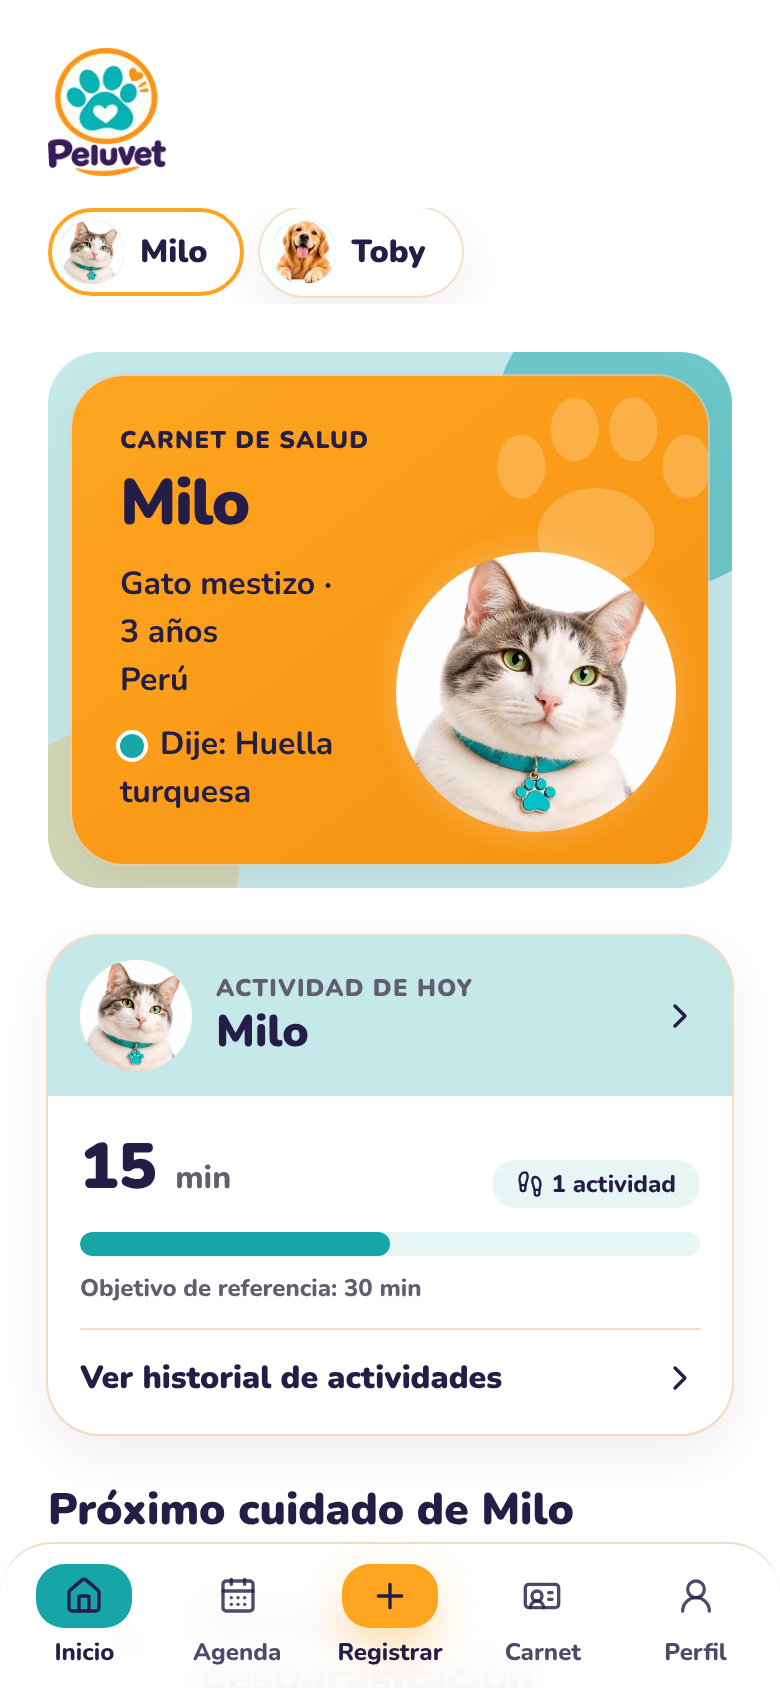
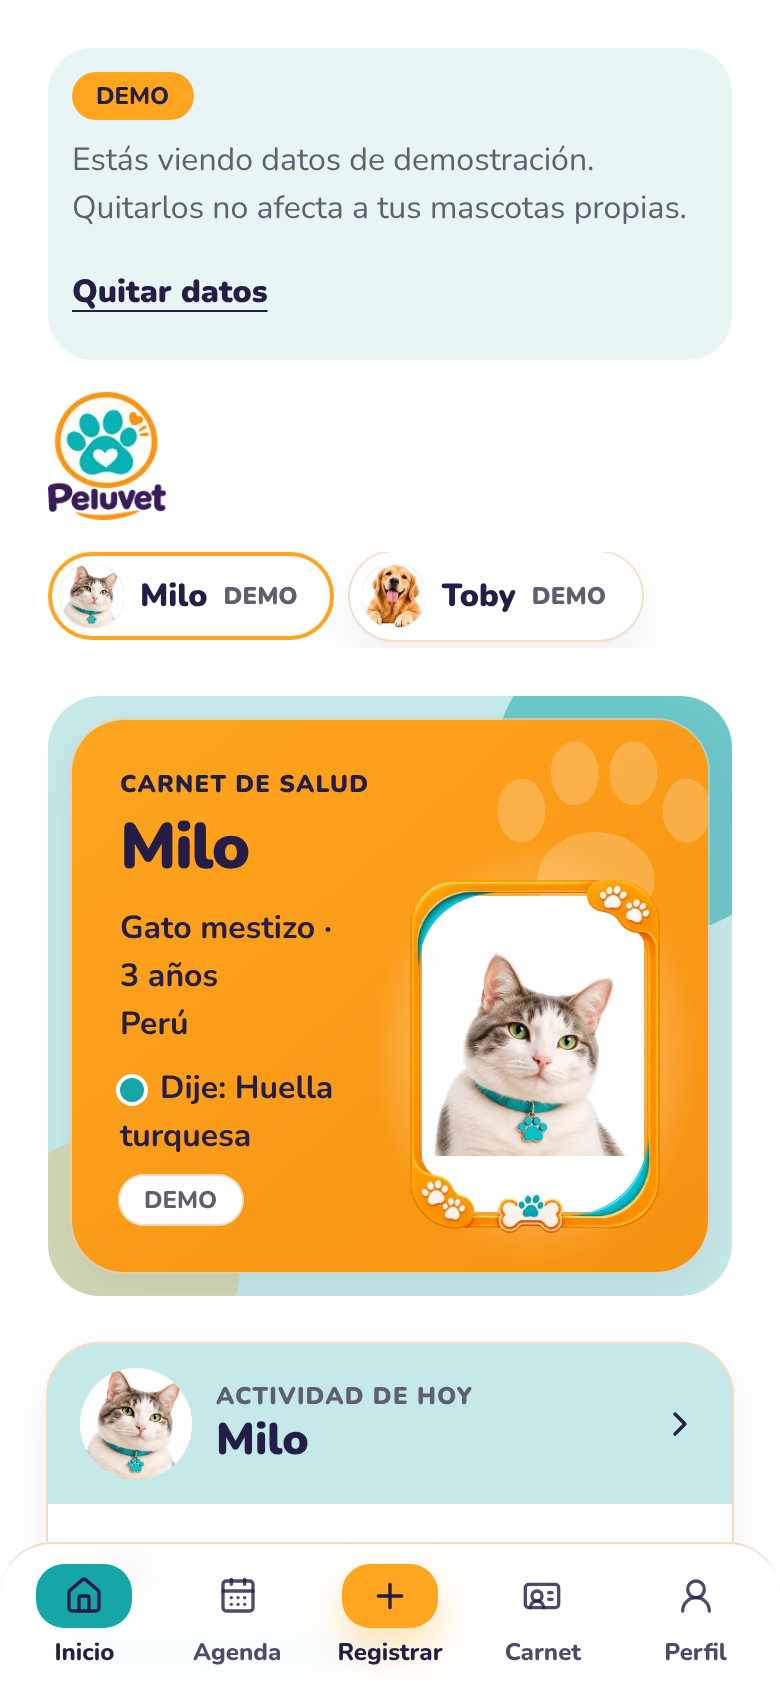
Fotos: sin recorte al subirlas y marco en el carnet de Inicio
- La foto de la mascota se reduce conservando toda su proporción: ya no se pierden orejas, cabeza ni patas.
- El fondo transparente de las imágenes se pinta de blanco antes de guardarlas.
- La tarjeta de Inicio y de Carnet muestra la foto dentro del marco de Peluvet cuando la hay.
- La captura de Inicio de la portada se regenera con el marco.
- Respaldo de la captura anterior en respaldo/capturas-milo-toby.

Sigue en modo demostración: sin Supabase, Hotmart ni cobros.

Claude-Session: https://claude.ai/code/session_01BjtNdvUPFYYkV9nZtombvC

diff --git a/lib/foto.ts b/lib/foto.ts
@@ -4,19 +4,27 @@ const LIMITE_CARACTERES = 190_000;
 
 export type ResultadoFoto = { ok: true; foto: string } | { ok: false; error: string };
 
-/** Reduce una foto a un cuadrado de hasta 480 px y la devuelve como JPEG en base64. Todo ocurre en el navegador. */
+/**
+ * Reduce una foto hasta que su lado mayor mida `lado` px, conservando la proporción completa de la imagen:
+ * no se recorta nada (así no se pierden orejas, cabeza ni patas). Se devuelve como JPEG en base64.
+ * Todo ocurre en el navegador.
+ */
 export async function reducirFoto(archivo: File, lado = 480): Promise<ResultadoFoto> {
   if (!archivo.type.startsWith("image/")) return { ok: false, error: "Elige una imagen (JPG, PNG o WebP)." };
   try {
     const bitmap = await createImageBitmap(archivo);
-    const corte = Math.min(bitmap.width, bitmap.height);
+    const escala = Math.min(1, lado / Math.max(bitmap.width, bitmap.height));
+    const anchoDestino = Math.max(1, Math.round(bitmap.width * escala));
+    const altoDestino = Math.max(1, Math.round(bitmap.height * escala));
     const lienzo = document.createElement("canvas");
-    const destino = Math.min(lado, corte);
-    lienzo.width = destino;
-    lienzo.height = destino;
+    lienzo.width = anchoDestino;
+    lienzo.height = altoDestino;
     const ctx = lienzo.getContext("2d");
     if (!ctx) return { ok: false, error: "Tu navegador no puede procesar la foto." };
-    ctx.drawImage(bitmap, (bitmap.width - corte) / 2, (bitmap.height - corte) / 2, corte, corte, 0, 0, destino, destino);
+    // Fondo blanco: el JPEG no tiene transparencia y así una imagen PNG transparente no se ve negra.
+    ctx.fillStyle = "#ffffff";
+    ctx.fillRect(0, 0, anchoDestino, altoDestino);
+    ctx.drawImage(bitmap, 0, 0, anchoDestino, altoDestino);
     bitmap.close();
     for (const calidad of [0.82, 0.7, 0.55, 0.4]) {
       const url = lienzo.toDataURL("image/jpeg", calidad);

diff --git a/components/tarjeta-carnet.tsx b/components/tarjeta-carnet.tsx
@@ -1,6 +1,7 @@
 "use client";
 
 import { Chip } from "@/components/ui/chip";
+import { MarcoFoto } from "@/components/marco-foto";
 import { MascotaAvatar } from "@/components/ui/mascota-avatar";
 import { dijeDe, describirEdad, razaOMestizo, type Mascota } from "@/lib/mascota";
 import { nombreDePais } from "@/lib/paises";
@@ -62,7 +63,13 @@ export function TarjetaCarnet({
         <span aria-hidden className="escenario-personaje absolute -inset-3" />
         <div className="flotar relative">
           {/* Tamaño fluido: en 320 px el personaje mide 120 px y deja sitio al nombre y a los datos (el tamaño inline se sustituye con !). */}
-          <MascotaAvatar personaje={mascota.personaje} foto={mascota.foto} tamano={168} priority className="!size-[clamp(120px,36vw,168px)]" />
+          {mascota.foto ? (
+            <div className="w-[clamp(120px,36vw,168px)]">
+              <MarcoFoto src={mascota.foto} alt={`Foto de ${mascota.nombre}`} sizes="168px" priority />
+            </div>
+          ) : (
+            <MascotaAvatar personaje={mascota.personaje} tamano={168} priority className="!size-[clamp(120px,36vw,168px)]" />
+          )}
         </div>
       </div>
     </section>
